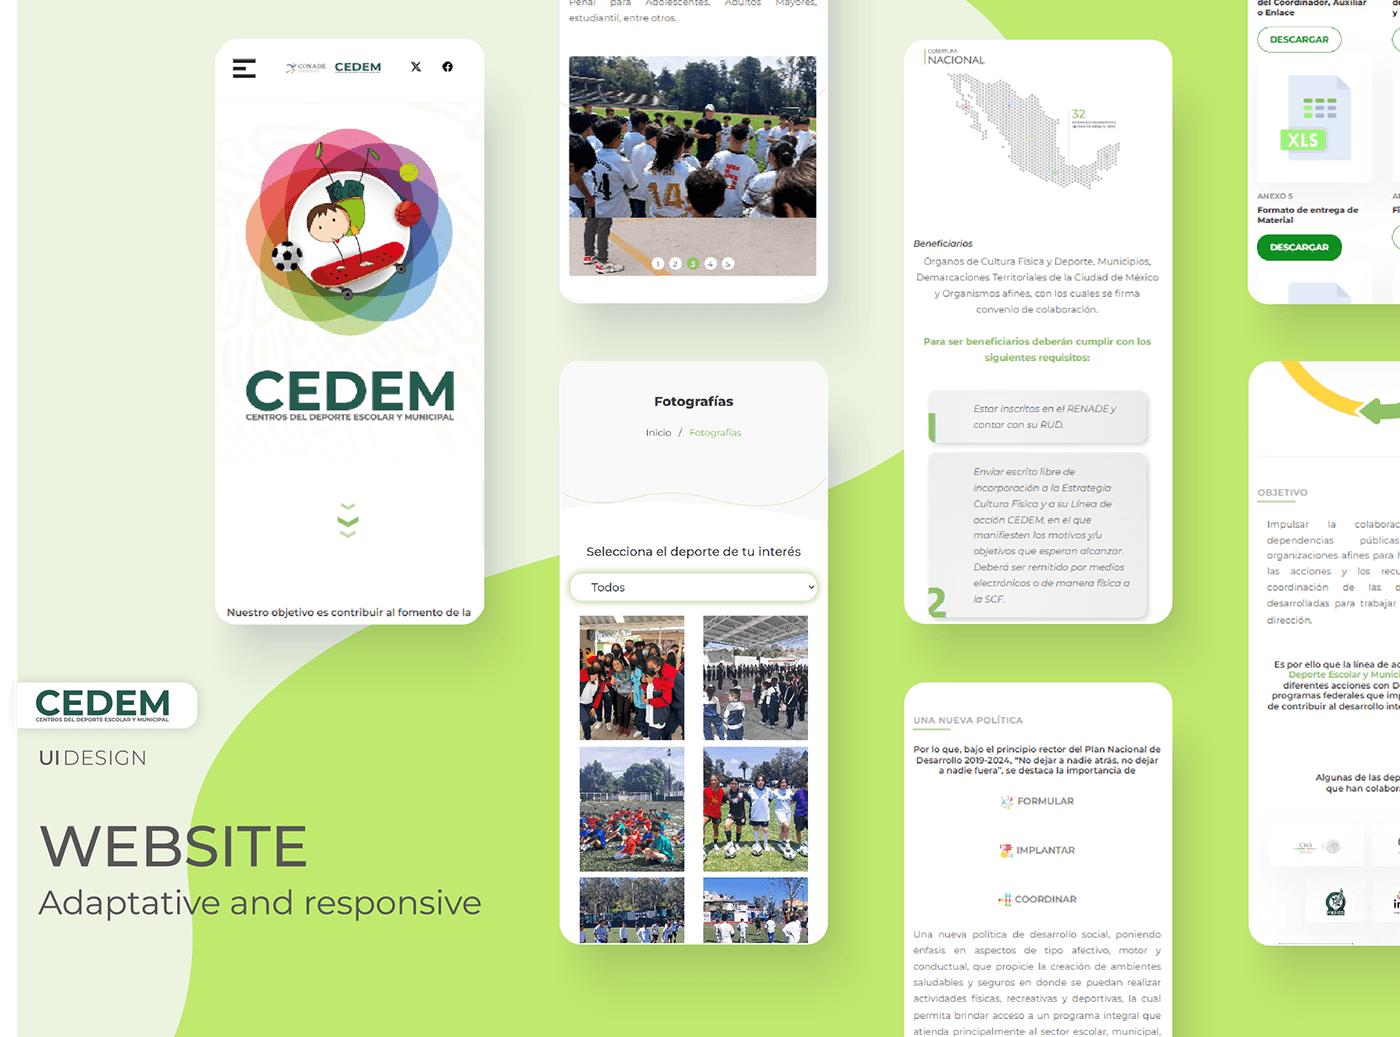
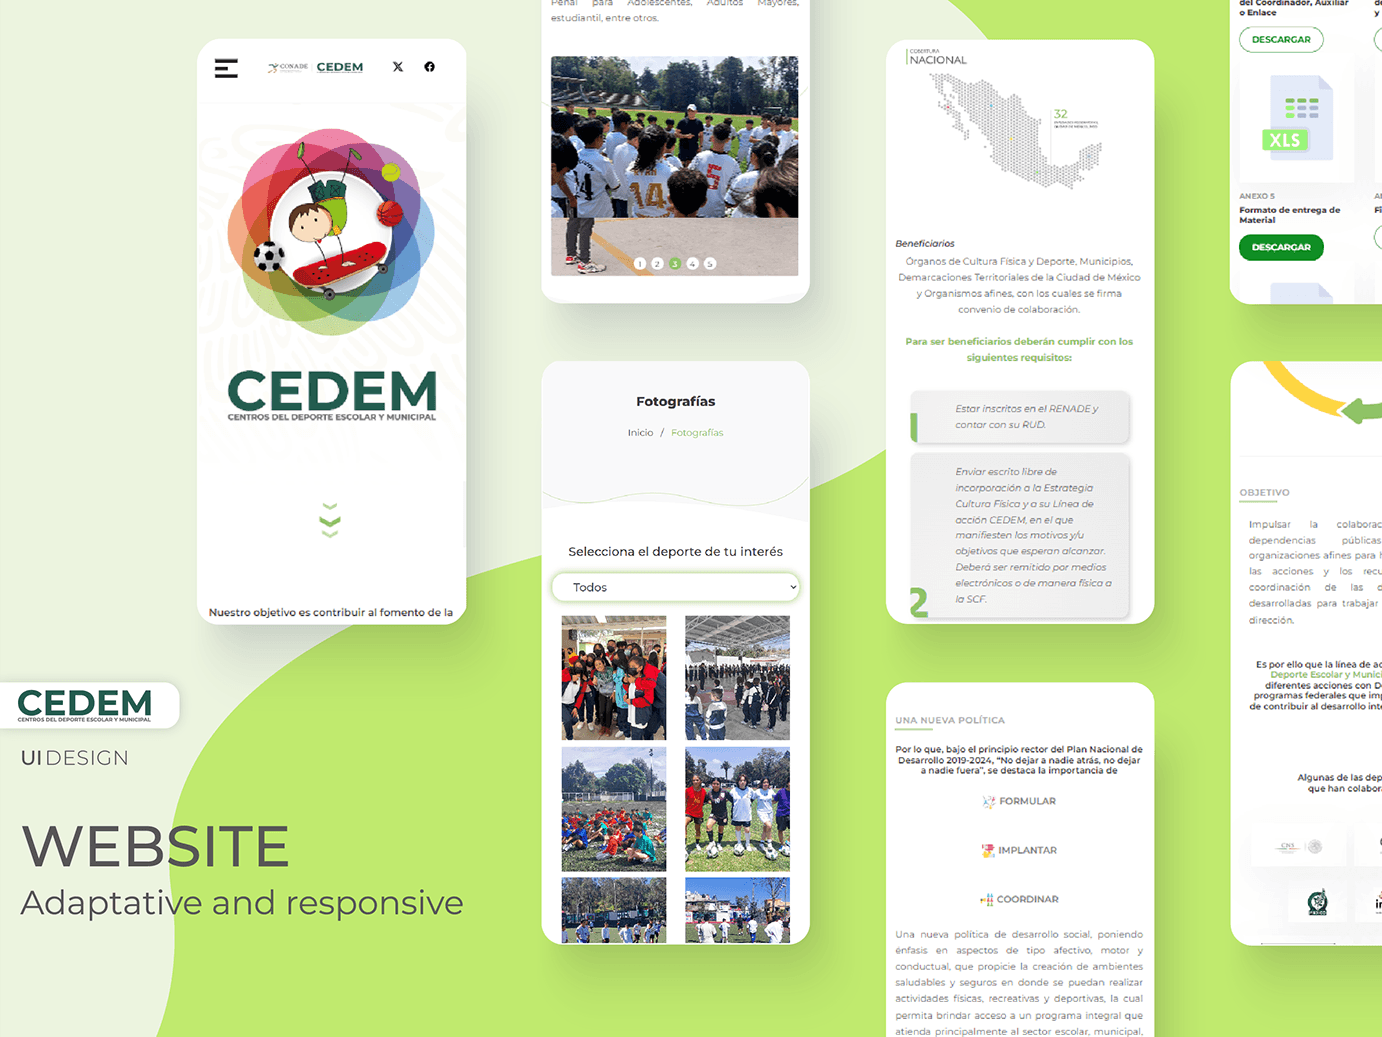
Update: Proyectos

diff --git a/index.html b/index.html
@@ -375,7 +375,7 @@
     <a href="#proyectos">Proyectos</a>
     <a href="#sobre-mi">Sobre mí</a>
     <a href="#contacto">Contacto</a>
-    <a href="#contacto" class="nav-cta">Trabajemos juntas</a>
+    <a href="#contacto" class="nav-cta">Trabajemos juntos</a>
   </div>
 </nav>
 
@@ -383,7 +383,7 @@
 <section class="hero">
   <div class="hero-bg-shape"></div>
   <div class="hero-inner">
-    <div class="hero-tag">Diseñadora Web · México</div>
+    <div class="hero-tag">Diseñadora UI/UX · México</div>
     <h1>Diseño que<br><em>comunica</em> y<br>convierte.</h1>
     <p class="hero-sub">Hola, soy Frida De Paz. Diseñadora especializada en diseño web y email marketing, con experiencia trabajando para Aeroméxico, CONADE y más.</p>
     <div class="hero-actions">
@@ -422,7 +422,9 @@
 
     <a href="proyecto-01.html" class="project-card reveal">
       <div class="card-image">
-        <div class="card-image-inner card-placeholder" style="background: linear-gradient(135deg, #E8D5C4 0%, #C4A882 100%);">🌿</div>
+        <div class="card-image-inner card-placeholder" style="background: linear-gradient(135deg, #E8D5C4 0%, #C4A882 100%);">
+      <img src="Recursos/Imagenes/Portada_AM.png" style="object-fit: contain; width:100%;">
+        </div>
       </div>
       <div class="card-body">
         <div class="card-meta">
@@ -437,7 +439,9 @@
 
     <a href="proyecto-02.html" class="project-card reveal">
       <div class="card-image">
-        <div class="card-image-inner card-placeholder" style="background: linear-gradient(135deg, #C4D4C4 0%, #7A9A7A 100%);">📊</div>
+        <div class="card-image-inner card-placeholder" style="background: linear-gradient(135deg, #C4D4C4 0%, #7A9A7A 100%);">
+      <img src="Recursos/Imagenes/portada_CP_AM.png" style="object-fit: contain; width:100%;">
+        </div>
       </div>
       <div class="card-body">
         <div class="card-meta">
@@ -450,9 +454,9 @@
       </div>
     </a>
 
-    <a href="https://www.behance.net/gallery/191904931/Diseno-Web-y-Prototipado-CEDEM-HTML-CSS" class="project-card reveal">
+    <a href="https://www.behance.net/gallery/191904931/Diseno-Web-y-Prototipado-CEDEM-HTML-CSS" class="project-card reveal" target="_blank">
       <div class="card-image">
-        <div class="card-image-inner card-placeholder" style="background: linear-gradient(135deg, #D4C4E4 0%, #9A7AB4 100%);">
+        <div class="card-image-inner card-placeholder" style="background: #ECF4DF;">
       <img src="Recursos/Imagenes/CEDEM_portada_v2_2024.png" style="object-fit: contain; width:100%;">
 
         </div>
@@ -468,7 +472,7 @@
       </div>
     </a>
 
-    <a href="https://www.behance.net/gallery/170973827/Web-Design-DOT-trucks" class="project-card reveal">
+    <a href="https://www.behance.net/gallery/170973827/Web-Design-DOT-trucks" class="project-card reveal" target="_blank">
       <div class="card-image">
         <div class="card-image-inner card-placeholder" style="background: linear-gradient(135deg, #E4D4C4 0%, #B48A6A 100%);">
       <img src="Recursos/Imagenes/DOT_portada_2023.png" style="object-fit: contain; width:100%;">
@@ -485,9 +489,28 @@
       </div>
     </a>
 
-    <a href="https://www.behance.net/gallery/171423705/Designs-for-education-platform" class="project-card reveal">
+     <a href="https://www.behance.net/gallery/196933251/UI-Web-Design-Laboratorio-Agendar-cita" class="project-card reveal" target="_blank">
       <div class="card-image">
-        <div class="card-image-inner card-placeholder" style="background: linear-gradient(135deg, #C4D4E4 0%, #6A8AB4 100%);">📱</div>
+        <div class="card-image-inner card-placeholder" style="background: linear-gradient(135deg, #C4D4E4 0%, #6A8AB4 100%);">
+      <img src="Recursos/Imagenes/LaboratioMedico_App_portada.png" style="object-fit: contain; width:100%;">
+        </div>
+      </div>
+      <div class="card-body">
+        <div class="card-meta">
+          <span class="card-tag">UI Prototipo App</span>
+          <span class="card-year">2022</span>
+        </div>
+        <h3 class="card-title">Laboratorio Agendar cita - App</h3>
+        <p class="card-desc">Prototipo de alta fidelidad con navegación en Figma</p>
+        <span class="card-arrow">Ver proyecto en Behance →</span>
+      </div>
+    </a>
+
+    <a href="https://www.behance.net/gallery/171423705/Designs-for-education-platform" class="project-card reveal" target="_blank">
+      <div class="card-image">
+        <div class="card-image-inner card-placeholder" style="background: linear-gradient(135deg, #C4D4E4 0%, #6A8AB4 100%);">
+      <img src="Recursos/Imagenes/PEL_portada.png" style="object-fit: contain; width:100%;">
+        </div>
       </div>
       <div class="card-body">
         <div class="card-meta">
@@ -495,7 +518,7 @@
           <span class="card-year">2022</span>
         </div>
         <h3 class="card-title">Prepa en Línea SEP</h3>
-        <p class="card-desc">Prototipado de sitio web</p>
+        <p class="card-desc">Prototipado de sitio web con animación en Figma</p>
         <span class="card-arrow">Ver proyecto en Behance →</span>
       </div>
     </a>
@@ -571,15 +594,15 @@
         <span class="contact-link-icon">☎</span>
         (56) 1794 1016
       </a>
-      <a href="https://linkedin.com" class="contact-link" target="_blank">
+      <a href="https://www.linkedin.com/in/frida-de-paz-29458a224/" class="contact-link" target="_blank">
         <span class="contact-link-icon">in</span>
         LinkedIn
       </a>
-      <a href="https://behance.net" class="contact-link" target="_blank">
+      <a href="https://www.behance.net/fridaaah" class="contact-link" target="_blank">
         <span class="contact-link-icon">Be</span>
         Behance
       </a>
-      <a href="https://github.com" class="contact-link" target="_blank">
+      <a href="https://github.com/xdepazx" class="contact-link" target="_blank">
         <span class="contact-link-icon">⌥</span>
         Github
       </a>
@@ -609,7 +632,7 @@
 </section>
 
 <footer>
-  <span>© 2026 Frida De Paz García — Diseñadora UI</span>
+  <span>© 2026 Frida De Paz García — Diseñadora UI/UX</span>
   <div style="display:flex; gap:24px;">
     <a href="mailto:Frida.l.k.t2@gmail.com">Email</a>
     <a href="https://www.linkedin.com/in/frida-de-paz-29458a224/" target="_blank">LinkedIn</a>

diff --git a/proyecto-02.html b/proyecto-02.html
@@ -79,7 +79,7 @@
   
   <div class="hero-meta">
     <div class="breadcrumb"><a href="index.html">Inicio</a> <span>/</span> <a href="index.html#proyectos">Proyectos</a> <span>/</span> Formularios Aeroméxico</div>
-    <div class="project-tags"><span class="tag">Diseño Web</span><span class="tag">Forumlarios</span><span class="tag">2025</span></div>
+    <div class="project-tags"><span class="tag">Diseño Web</span><span class="tag">Formularios</span><span class="tag">2025</span></div>
     <h1 class="project-title">Formularios Aeroméxico</h1>
     <p class="project-subtitle"></p>
   </div>
